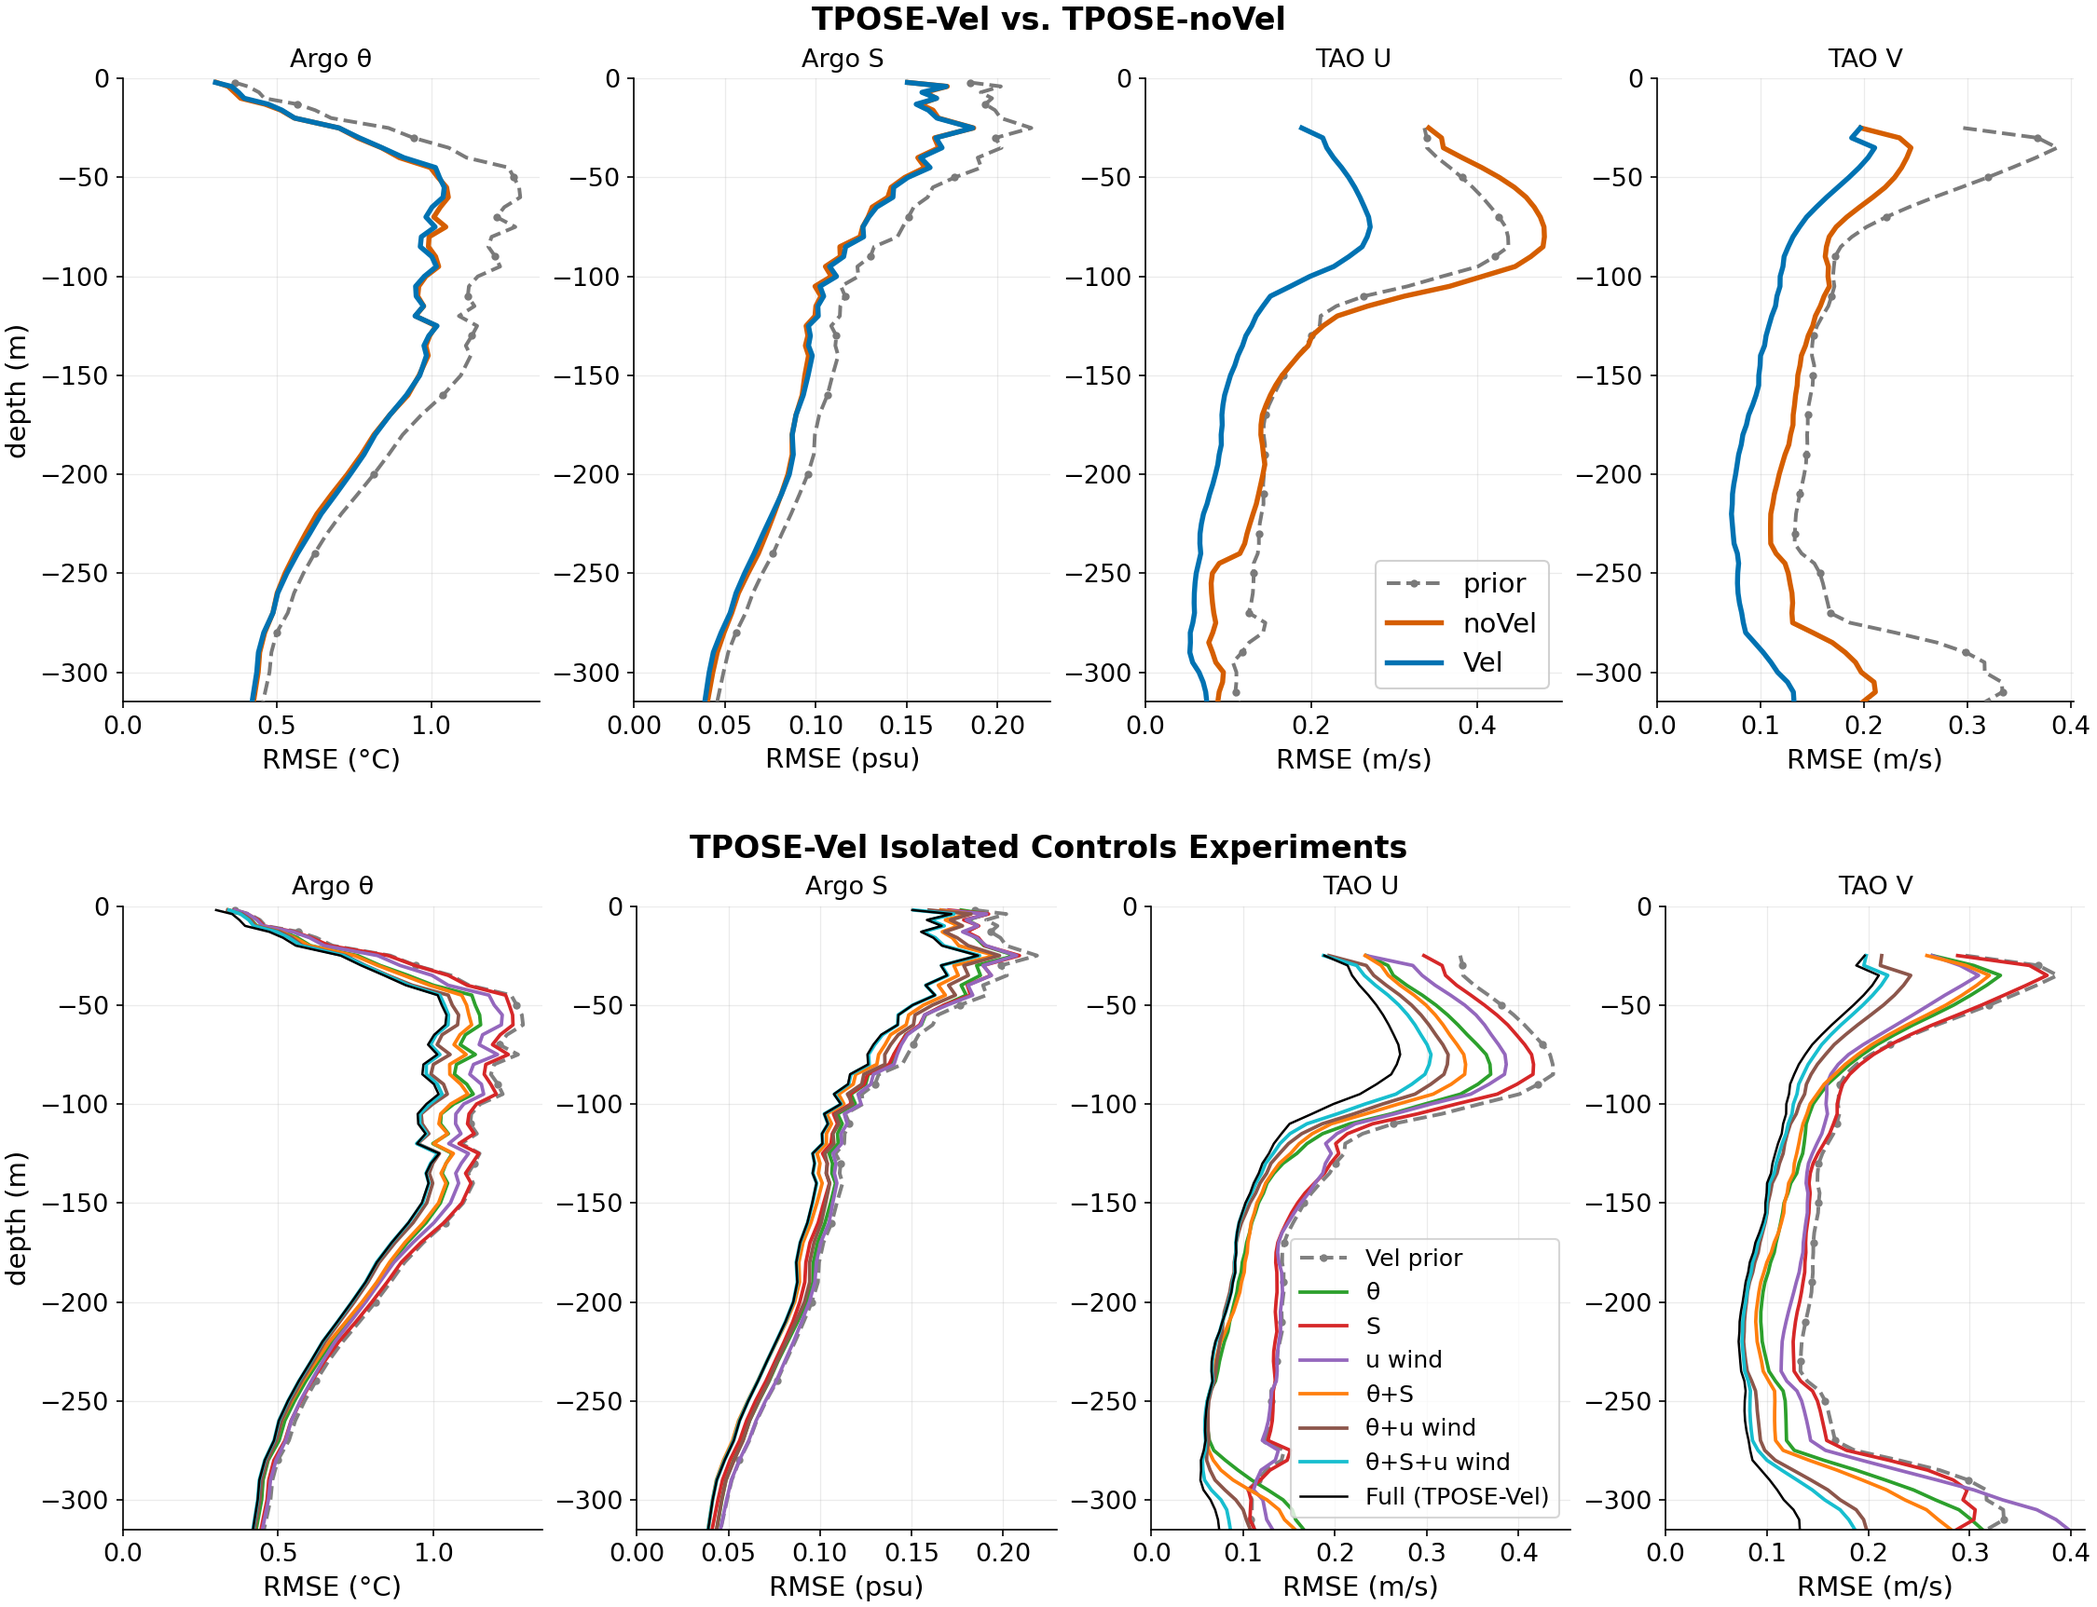
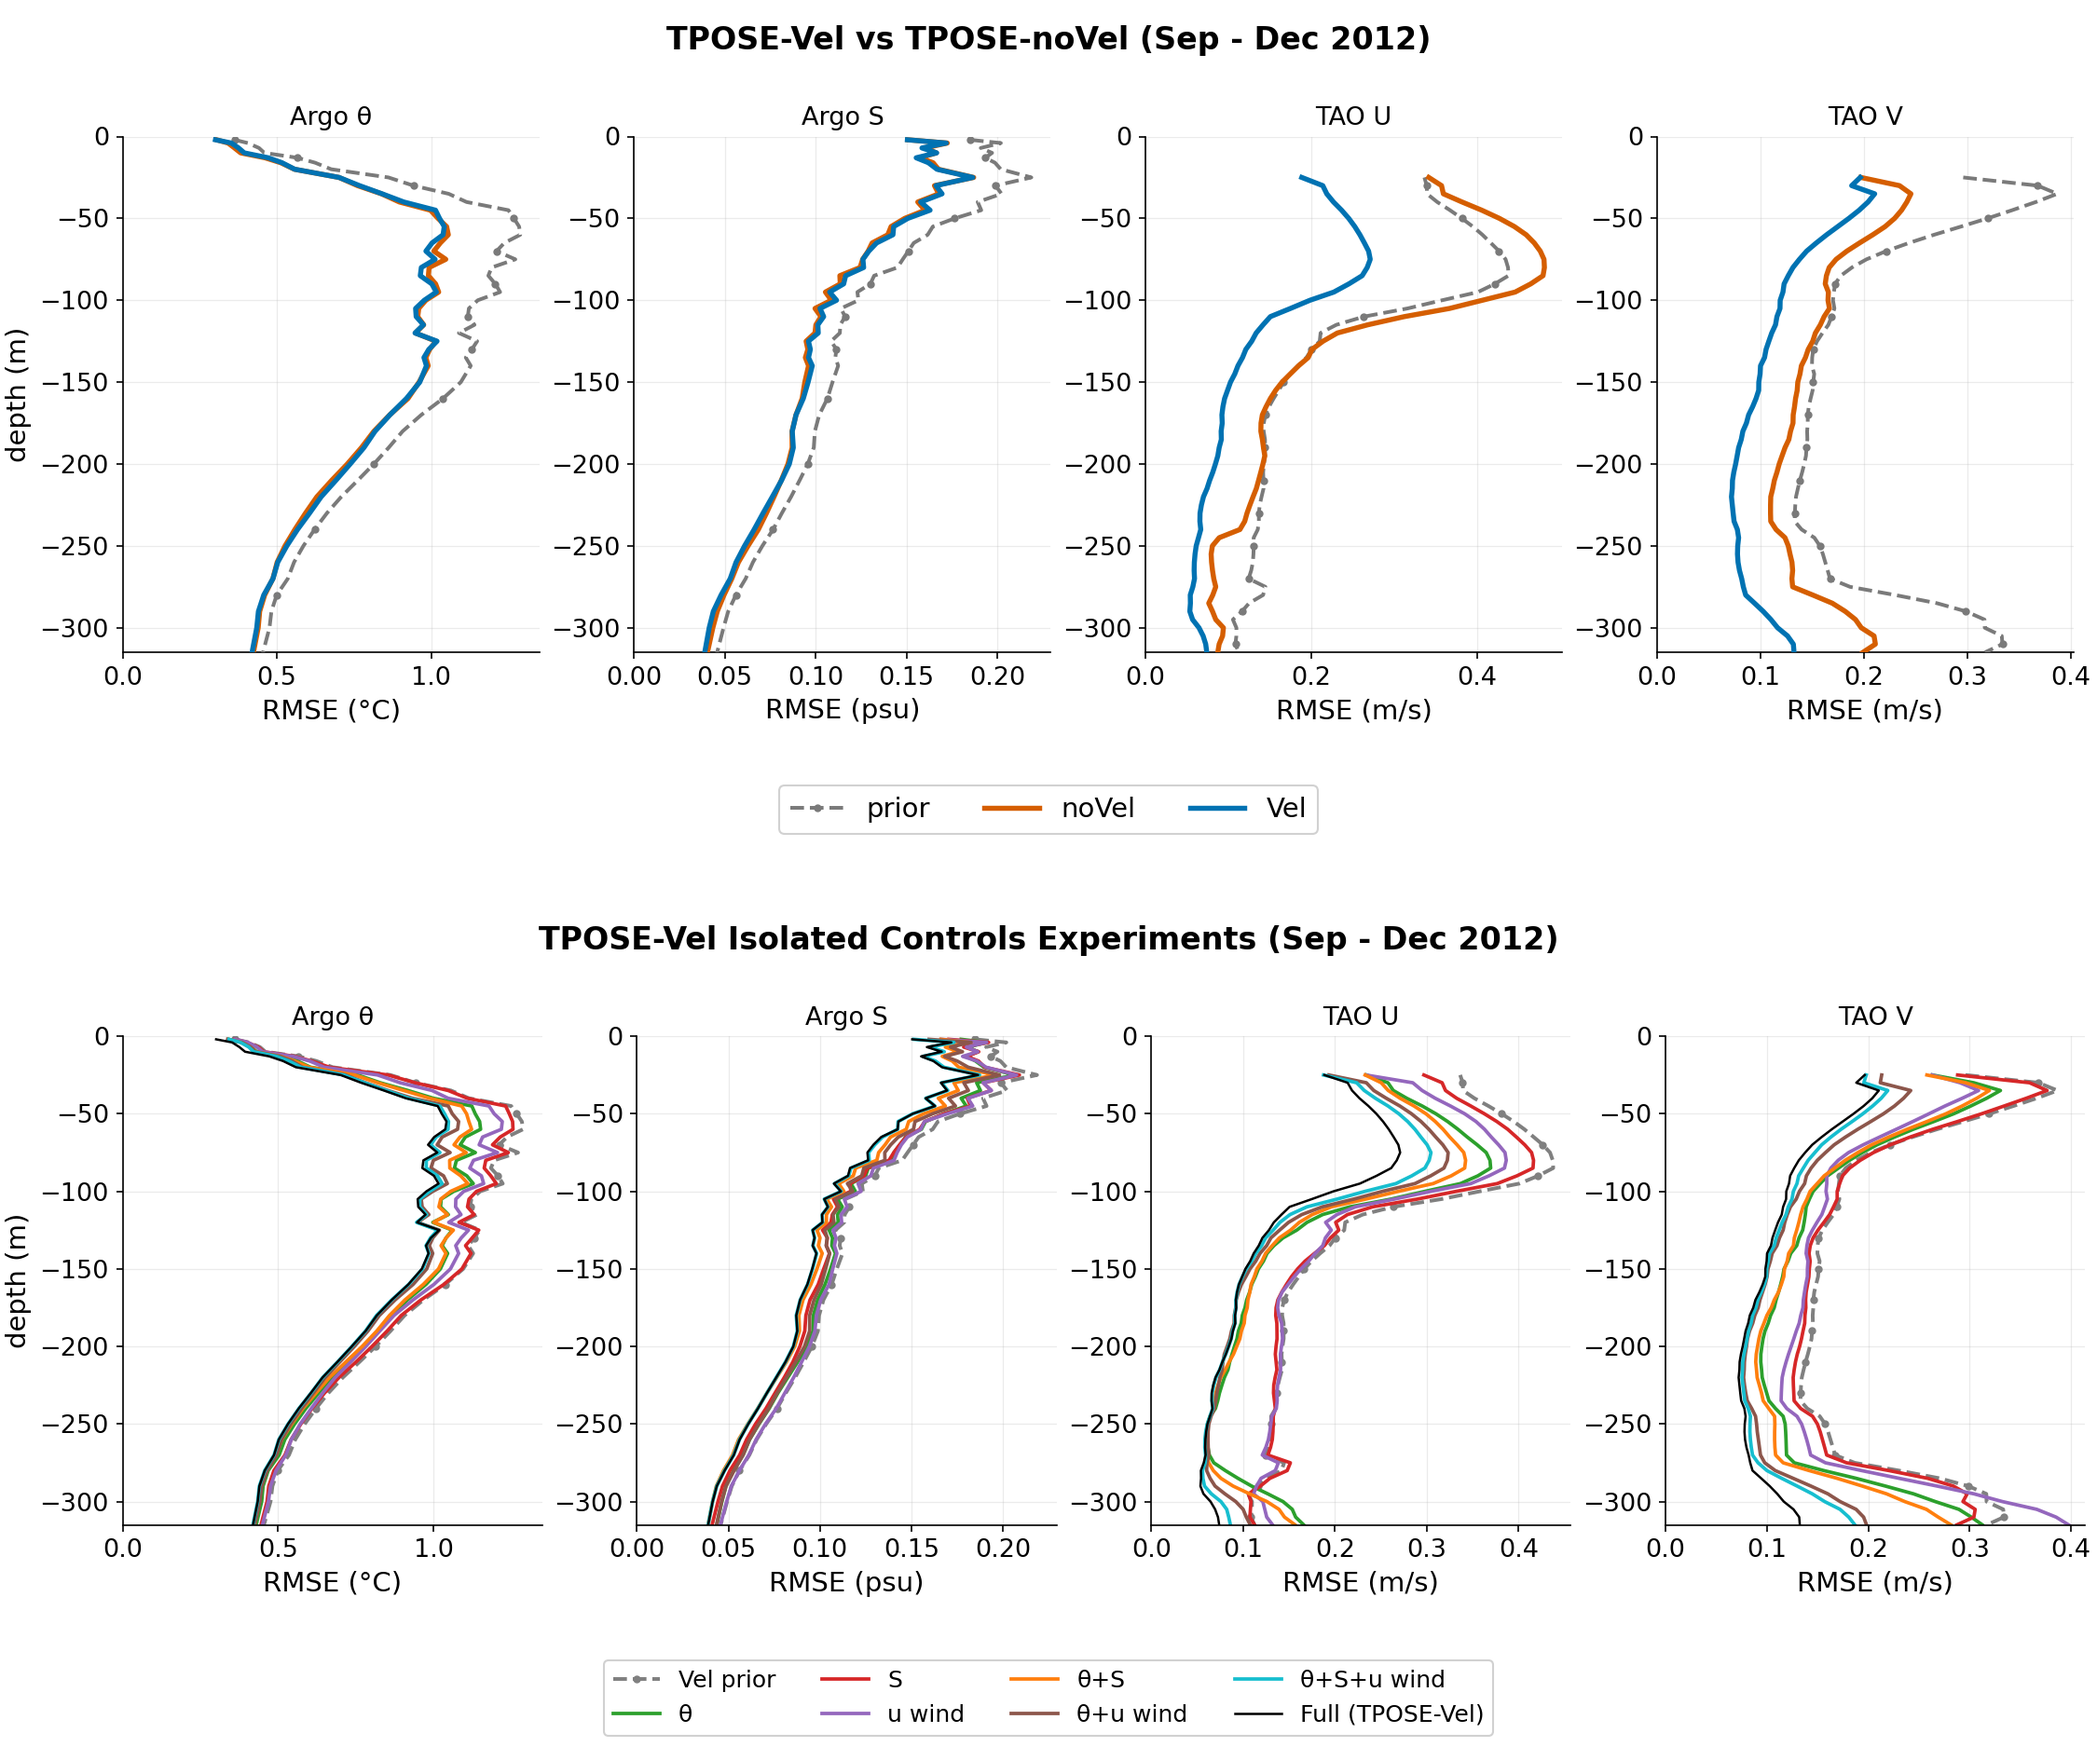
more edits to sep2012 window analysis figs

diff --git a/misfit_cost.py b/misfit_cost.py
@@ -99,6 +99,16 @@ WINDOWS = {
         'Vel':   (f'{_SO3}/mar2013/run_iter16', 72, 1200)}),
 }
 
+# noVel prior (iter0) per window — the noVel counterpart to the Vel prior (the 'prior'
+# role above). Scattered across two trees; sep2012 noVel iter0 == Vel prior (same run).
+# Used by the iter-0 bar plot (compute_noVel_prior) and profile_windows.
+NOVEL_PRIOR = {
+    'sep2012': WINDOWS['sep2012']['runs']['prior'],
+    'nov2012': ('/data/SO3/averdy/TPOSE6/nov2012/diags_iter0', 72, 1200),
+    'jan2013': (f'{_SO6}/jan2013/diags_iter0', 72, 1200),
+    'mar2013': (f'{_SO6}/mar2013/diags_iter0', 72, 1200),
+}
+
 
 # ---- compute -----------------------------------------------------------------
 def _load(win, prefix):
@@ -265,6 +275,32 @@ def compute(windows=None):
     return pd.DataFrame(rows, columns=COLS)
 
 
+def compute_noVel_prior(windows=None):
+    """Sample ONLY the noVel prior (iter0) and merge its rows into the CSV; the
+    other roles are already cached, so this is ~1/4 the cost of a full recompute."""
+    os.makedirs(os.path.dirname(CSV), exist_ok=True)
+    windows = list(windows or WINDOWS)
+    old = pd.read_csv(CSV)
+    rows = [r for r in old.itertuples(index=False, name=None) if r[1] != 'noVel_prior']
+    for win in windows:
+        print('===', win, flush=True)
+        sp = NOVEL_PRIOR.get(win)
+        if sp is None:
+            continue
+        ref = WINDOWS[win]['ref']
+        try:
+            st = {'noVel_prior': tiw.load_run('noVel_prior', ('diag_state',), ref_date=ref, spec=sp)}
+            surf = {'noVel_prior': tiw.load_run('noVel_prior', ('diag_surf',), ref_date=ref, spec=sp)}
+        except (OSError, PermissionError) as e:
+            print(f'  SKIP {win}/noVel_prior: {type(e).__name__}', flush=True)
+            continue
+        _profiles(rows, win, st)
+        _grids(rows, win, st, surf, st['noVel_prior'])
+        pd.DataFrame(rows, columns=COLS).to_csv(CSV, index=False)
+        print(f'  checkpoint ({len(rows)} rows)', flush=True)
+    return pd.DataFrame(rows, columns=COLS)
+
+
 # ---- plot --------------------------------------------------------------------
 # Consolidated reporting cells. Redundant/renamed files fold together, and each
 # solution is scored against the dataset IT assimilated (_keep_row):
@@ -288,7 +324,7 @@ CELL_CAT = {'Argo T': 'Argo', 'Argo S': 'Argo', 'Moored T': 'Moored', 'Moored S'
             'XBT T': 'XBT', 'SST': 'SST', 'SSH': 'SSH'}
 GROUP_COLOR = {'Argo': '#1f77b4', 'Moored': '#17becf', 'Velocity': '#2ca02c',
                'CTD': '#9467bd', 'XBT': '#ff7f0e', 'SST': '#d62728', 'SSH': '#e377c2'}
-HATCH = {'prior': '', 'noVel': '...', 'Vel': '//'}
+HATCH = {'prior': '', 'noVel': '...', 'Vel': '//', 'noVel_prior': 'xx'}
 
 
 def _keep_row(window, solution, product):
@@ -304,7 +340,7 @@ def _keep_row(window, solution, product):
     if product in ('WOD CTD T', 'WOD CTD S'):  # WOD-CTD-OSD = CTD for ALL solutions in-domain
         return True
     if product == 'SIO XBT T':                 # SIO assimilated only by Vel/prior (score each
-        return solution != 'noVel'             #   solution vs what it used; in-domain & minor)
+        return solution not in ('noVel', 'noVel_prior')   # noVel lineage used WOD XBT only
     if product in ('WOD GLD T', 'WOD GLD S'):  # gliders: dropped entirely
         return False
     return True
@@ -342,11 +378,11 @@ def table(df=None):
     print('\nwrote', out)
 
 
-def _cell_bars(ax, cells, color, getval):
-    """Grouped bars (one group per PLOT_ROLE) for the consolidated cells on `ax`."""
+def _cell_bars(ax, cells, color, getval, roles):
+    """Grouped bars (one group per role) for the consolidated cells on `ax`."""
     x, bw = np.arange(len(cells)), 0.38
-    for j, role in enumerate(PLOT_ROLES):
-        off = (j - (len(PLOT_ROLES) - 1) / 2) * bw
+    for j, role in enumerate(roles):
+        off = (j - (len(roles) - 1) / 2) * bw
         ax.bar(x + off, [getval(role, c) for c in cells], bw,
                color=[color[c] for c in cells], hatch=HATCH[role],
                edgecolor='k', linewidth=0.4)
@@ -357,7 +393,9 @@ def _cell_bars(ax, cells, color, getval):
     ax.margins(x=0.01)
 
 
-def plot(df=None, out=FIG):
+def plot(df=None, out=FIG, roles=None, labels=None):
+    roles = roles or PLOT_ROLES
+    labels = labels or {r: r for r in roles}
     if df is None:
         df = pd.read_csv(CSV)
     g = _grouped(df)
@@ -372,16 +410,16 @@ def plot(df=None, out=FIG):
     fig = plt.figure(figsize=(14, 11.5))
     gs = fig.add_gridspec(3, 4, hspace=0.62, wspace=0.3)
     ax_agg = fig.add_subplot(gs[0, 1:3])
-    _cell_bars(ax_agg, cells, color, lambda role, c: pi.get((role, c), np.nan))
+    _cell_bars(ax_agg, cells, color, lambda role, c: pi.get((role, c), np.nan), roles)
     ax_agg.set_title('all windows pooled', fontweight='bold')
     for (r, c0, c1), win in zip([(1, 0, 2), (1, 2, 4), (2, 0, 2), (2, 2, 4)], wins):
         ax = fig.add_subplot(gs[r, c0:c1], sharey=ax_agg)
-        _cell_bars(ax, cells, color, lambda role, c, win=win: gi.get((win, role, c), np.nan))
+        _cell_bars(ax, cells, color, lambda role, c, win=win: gi.get((win, role, c), np.nan), roles)
         ax.set_title(win)
     cats = {CELL_CAT[c] for c in cells}        # only legend the categories actually shown
     grp = [Patch(facecolor=c, edgecolor='k', label=gname)
            for gname, c in GROUP_COLOR.items() if gname in cats]
-    sol = [Patch(facecolor='0.85', edgecolor='k', hatch=HATCH[r], label=r) for r in PLOT_ROLES]
+    sol = [Patch(facecolor='0.85', edgecolor='k', hatch=HATCH[r], label=labels[r]) for r in roles]
     lax = fig.add_subplot(gs[0, 0]); lax.axis('off')       # legends fill the empty top corners
     lax.legend(handles=grp, loc='center', frameon=False, fontsize=13)
     rax = fig.add_subplot(gs[0, 3]); rax.axis('off')
@@ -389,6 +427,12 @@ def plot(df=None, out=FIG):
     os.makedirs(os.path.dirname(out), exist_ok=True)
     fig.savefig(out, dpi=150, bbox_inches='tight')
     print('wrote', out, flush=True)
+
+
+def plot_iter0(out='figs/comparison/misfit_cost_allwindows_iter0.png'):
+    """iter-0 version: Vel prior vs noVel prior (the no-DA background misfit)."""
+    plot(roles=['prior', 'noVel_prior'],
+         labels={'prior': 'Vel prior', 'noVel_prior': 'noVel prior'}, out=out)
 
 
 if __name__ == '__main__':
@@ -400,3 +444,7 @@ if __name__ == '__main__':
         plot()
     if cmd == 'table':
         table()
+    if cmd == 'compute_prior':       # sample only the noVel prior (merges into CSV)
+        compute_noVel_prior(wins)
+    if cmd in ('plot_prior', 'compute_prior'):
+        plot_iter0()

diff --git a/summary_figs.py b/summary_figs.py
@@ -72,7 +72,8 @@ def fig_error_profiles():
 
 
 def fig_error_and_decomp_profiles(prior_label='Vel prior', out='error_and_decomp_profiles.png'):
-    fig = plt.figure(figsize=(15, 11.5), constrained_layout=True)
+    fig = plt.figure(figsize=(15, 12.5), constrained_layout=True)
+    fig.get_layout_engine().set(h_pad=0.18)   # extra gap between panels and the below-row legends
     sfigs = fig.subfigures(2, 1, hspace=0.06)
     top, bot = sfigs[0].subplots(1, 4), sfigs[1].subplots(1, 4)
     # top row: prior -> noVel -> Vel
@@ -93,8 +94,10 @@ def fig_error_and_decomp_profiles(prior_label='Vel prior', out='error_and_decomp
         ax.grid(alpha=0.25, lw=0.6); ax.spines[['top', 'right']].set_visible(False)
         ax.tick_params(labelsize=13)
     top[0].set_ylabel('depth (m)', fontsize=14)
-    top[2].legend(fontsize=14, loc='lower right', frameon=True, framealpha=0.9)   # panel 3 (TAO U), matches bottom row
-    sfigs[0].suptitle('TPOSE-Vel vs. TPOSE-noVel', fontsize=16, fontweight='bold')
+    h, l = top[0].get_legend_handles_labels()                      # legend below the row
+    sfigs[0].legend(h, l, loc='outside lower center', ncol=len(l),
+                    fontsize=14, frameon=True, framealpha=0.9)
+    sfigs[0].suptitle('TPOSE-Vel vs TPOSE-noVel (Sep - Dec 2012)', fontsize=16, fontweight='bold')
     # bottom row: single-control & combo decomposition vs full solution
     for ax, (prod, var, label, unit, _) in zip(bot, PROF):
         obs = np.load(f'{CACHE}/obs_{prod}.npz')
@@ -117,8 +120,14 @@ def fig_error_and_decomp_profiles(prior_label='Vel prior', out='error_and_decomp
         ax.set_xlim(left=0); ax.grid(alpha=0.25, lw=0.6)
         ax.spines[['top', 'right']].set_visible(False); ax.tick_params(labelsize=13)
     bot[0].set_ylabel('depth (m)', fontsize=14)
-    bot[2].legend(fontsize=12, loc='lower right')   # panel 3 (TAO U); clears the Argo-S data
-    sfigs[1].suptitle('TPOSE-Vel Isolated Controls Experiments', fontsize=16, fontweight='bold')
+    hh, ll = [], []                                                # union across panels, below the row
+    for ax in bot:
+        for hi, li in zip(*ax.get_legend_handles_labels()):
+            if li not in ll:
+                hh.append(hi); ll.append(li)
+    sfigs[1].legend(hh, ll, loc='outside lower center', ncol=4,
+                    fontsize=12, frameon=True, framealpha=0.9)
+    sfigs[1].suptitle('TPOSE-Vel Isolated Controls Experiments (Sep - Dec 2012)', fontsize=16, fontweight='bold')
     os.makedirs(OUT, exist_ok=True)
     fig.savefig(f'{OUT}/{out}', dpi=150); plt.close(fig)
     print('wrote', out)
